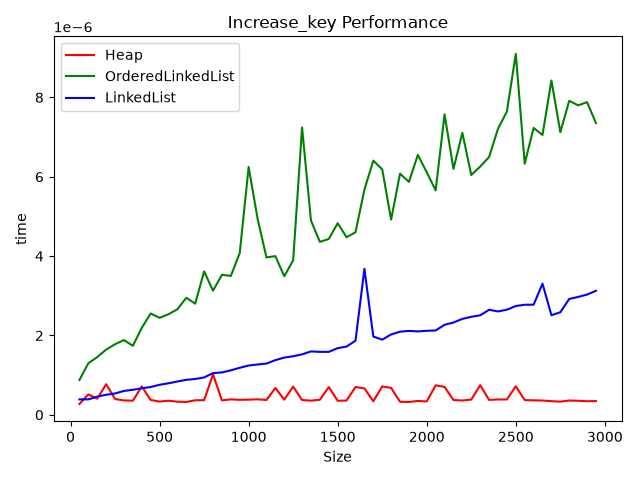
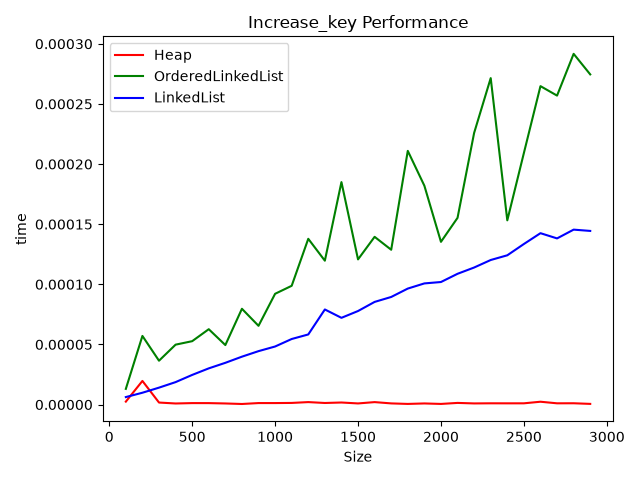
raised the maximum recursion limit to avoid hitting an error with deepcopy

diff --git a/PicchioniEs1LabAlg.py b/PicchioniEs1LabAlg.py
@@ -3,6 +3,10 @@ from time import perf_counter as timer
 import matplotlib.pyplot as plt
 import random
 from copy import deepcopy
+import sys
+
+# to avoid hitting maximum recursion depth when running deepcopy(prio_queue)
+sys.setrecursionlimit(100000)
 
 
 class Heap:
@@ -381,8 +385,8 @@ class Tests:
         self.intervals = intervals
         self.repeats = repeats
         self.max_value = max_value
-        self.inputs = random.choices(range(max_value), k=max_length)
         self.max_length = max_length
+        self.random_inputs()
 
     def random_inputs(self):
         self.inputs = random.choices(range(max_value), k=max_length)
@@ -410,7 +414,8 @@ class Tests:
 
         for k in intervals:
             best = inf
-            prio_queue.insert(self.inputs[k])
+            for i in range(prio_queue.get_len(), k):
+                prio_queue.insert(self.inputs[i])
             for _ in range(self.repeats):
                 temp_prio = deepcopy(prio_queue)
                 new_value = self.inputs[k]
@@ -475,7 +480,6 @@ class Tests:
         self,
         data_type,
     ):
-        self.random_inputs()
         time = []
         if data_type == 0:
             prio_queue = Heap()
@@ -486,7 +490,8 @@ class Tests:
 
         for k in self.intervals:
             best = inf
-            prio_queue.insert(self.inputs[k])
+            for i in range(prio_queue.get_len(), k):
+                prio_queue.insert(self.inputs[i])
             for _ in range(self.repeats):
                 temp_prio = deepcopy(prio_queue)
                 start = timer()
@@ -501,7 +506,6 @@ class Tests:
         self,
         data_type,
     ):
-        self.random_inputs()
         time = []
         if data_type == 0:
             prio_queue = Heap()
@@ -512,7 +516,8 @@ class Tests:
 
         for k in self.intervals:
             best = inf
-            prio_queue.insert(self.inputs[k])
+            for i in range(prio_queue.get_len(), k):
+                prio_queue.insert(self.inputs[i])
             for _ in range(self.repeats):
                 temp_prio = deepcopy(prio_queue)
                 target_index = temp_prio.get_len() - 1
@@ -531,26 +536,13 @@ class Tests:
 
 
 max_length = 3000
-step = 50
+step = 100
 intervals = range(step, max_length, step)
 max_value = 30000
-repeats = 5
+repeats = 1
 inputs = random.choices(range(max_value), k=max_length)
 tester = Tests(intervals, repeats, max_value, max_length)
 
-print("# Testing Insertion cases")
-# this means that the order they'll be tested will be: Heap, LinkedList and, lastly, OrderedLinkedList
-types_to_test = [0, 2, 1]
-
-# the range indicates the types of sets that will be inserted
-# 0 random values, 1 ascending values, 2 descending values
-for i in range(3):
-    test_name = None
-    # this is done to save a version of the graph without the OrderedLinkedList
-    if i != 2:
-        test_name = "_no_linked_" + str(i)
-
-    tester.insert_test(i, types_to_test, test_name)
 
 print("# Testing Remove_Max")
 # range indicates it'll test all three types of data structures
@@ -585,4 +577,19 @@ plt.legend(loc="upper left")
 plt.tight_layout()
 plt.savefig("increase_key_performance.png")
 plt.clf()
+
+print("# Testing Insertion cases")
+# this means that the order they'll be tested will be: Heap, LinkedList and, lastly, OrderedLinkedList
+types_to_test = [0, 2, 1]
+
+# the range indicates the types of sets that will be inserted
+# 0 random values, 1 ascending values, 2 descending values
+for i in range(3):
+    test_name = None
+    # this is done to save a version of the graph without the OrderedLinkedList
+    if i != 2:
+        test_name = "_no_linked_"
+
+    tester.insert_test(i, types_to_test, test_name)
+
 # TODO make tests to make a table for values
